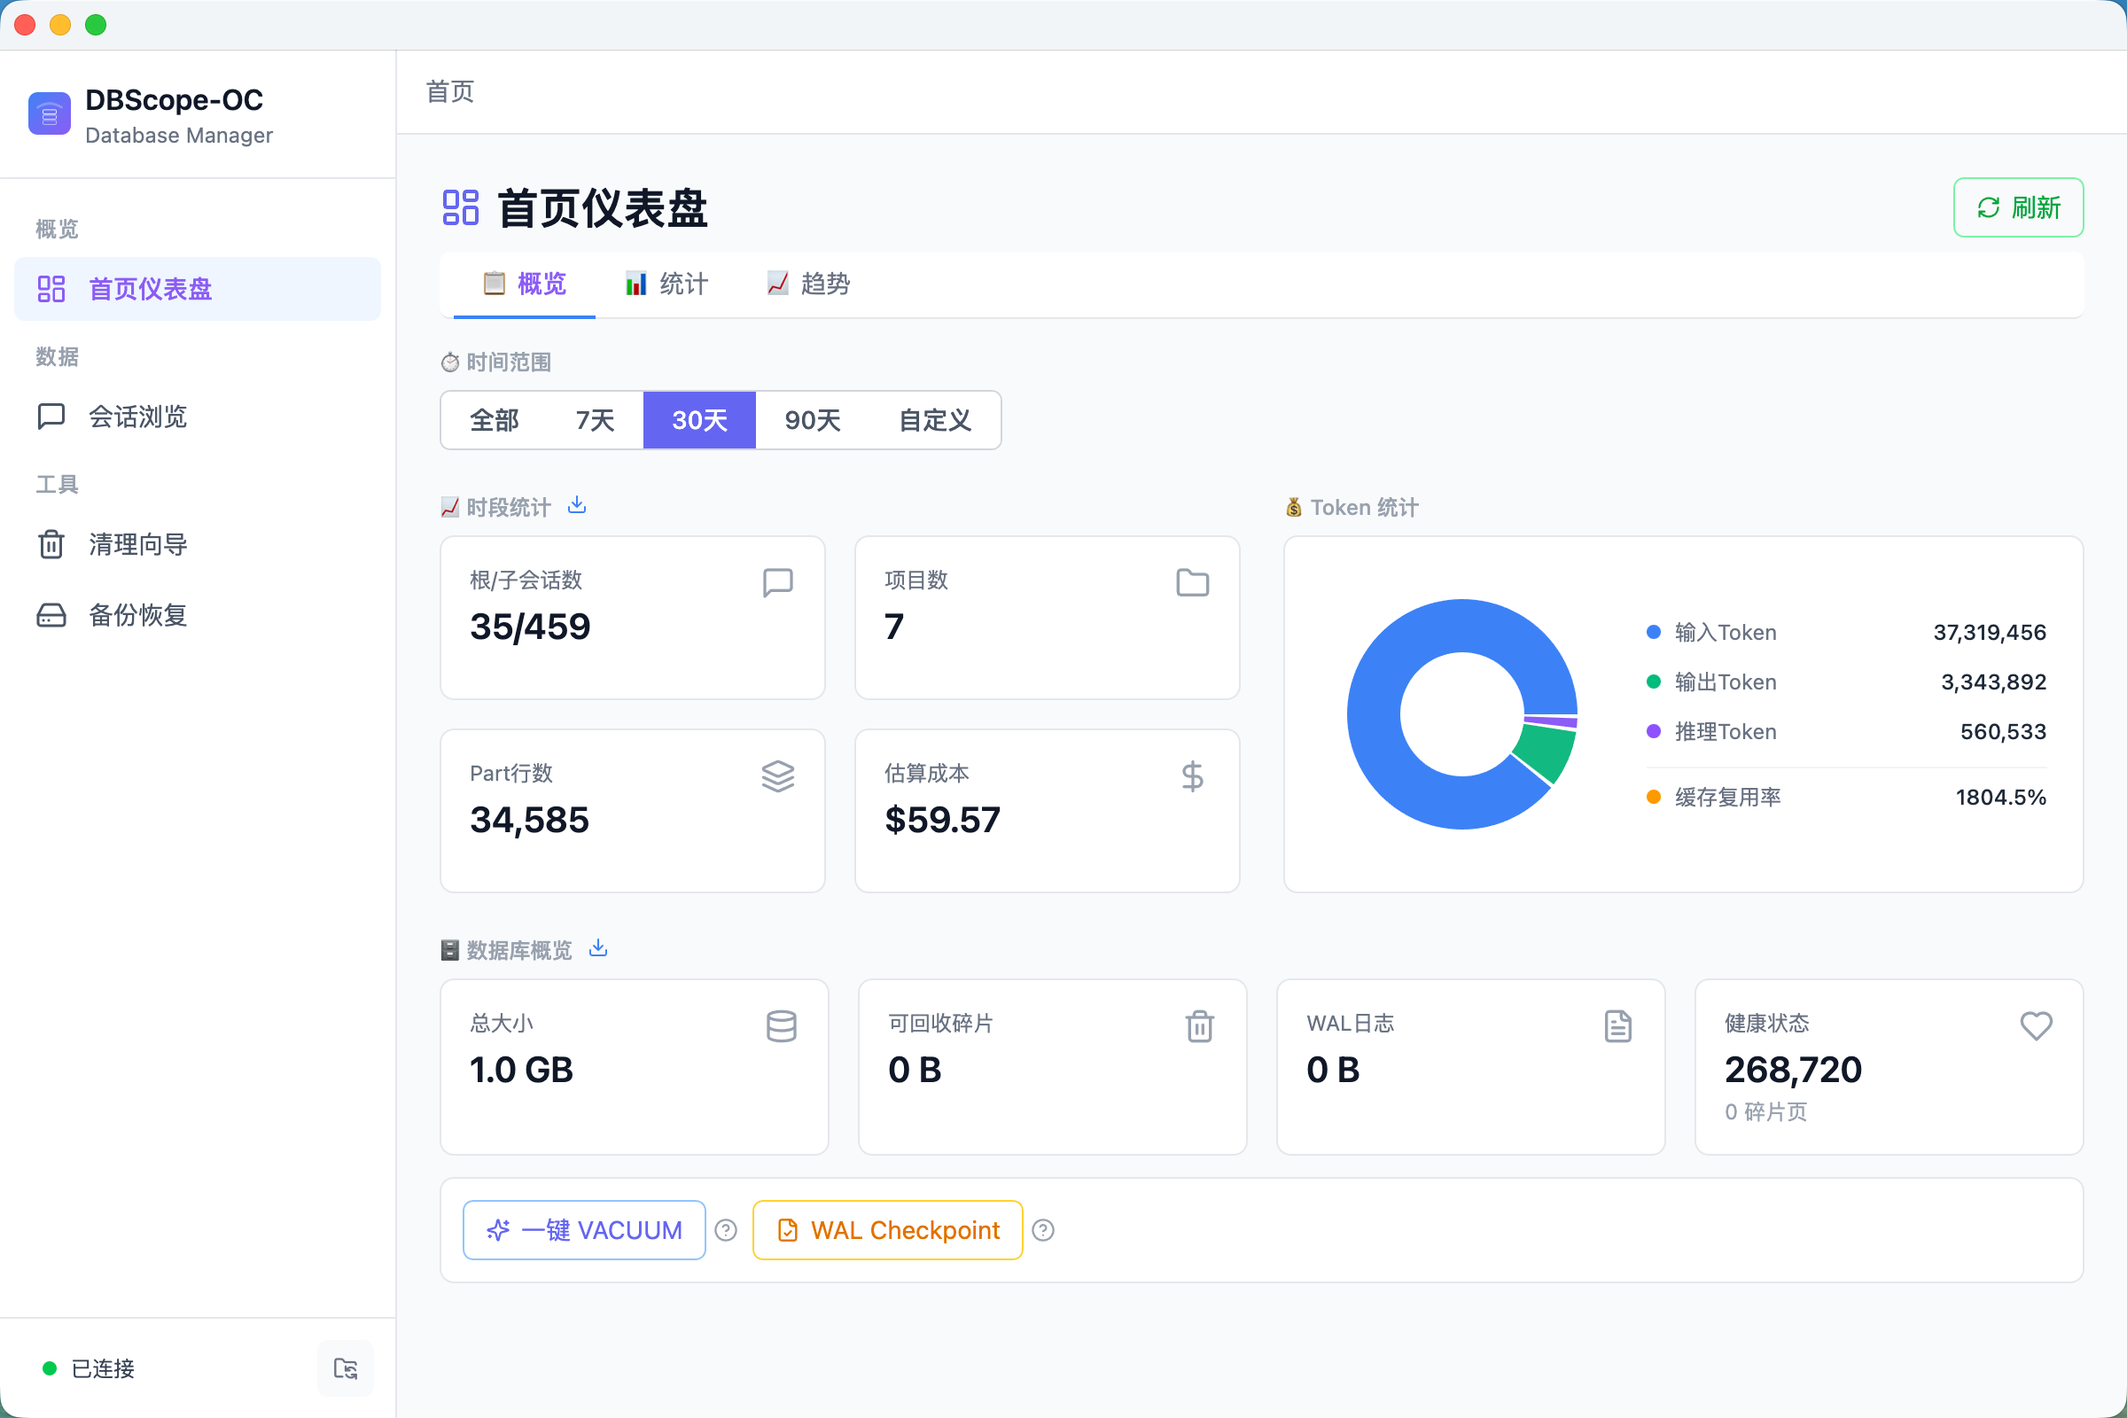
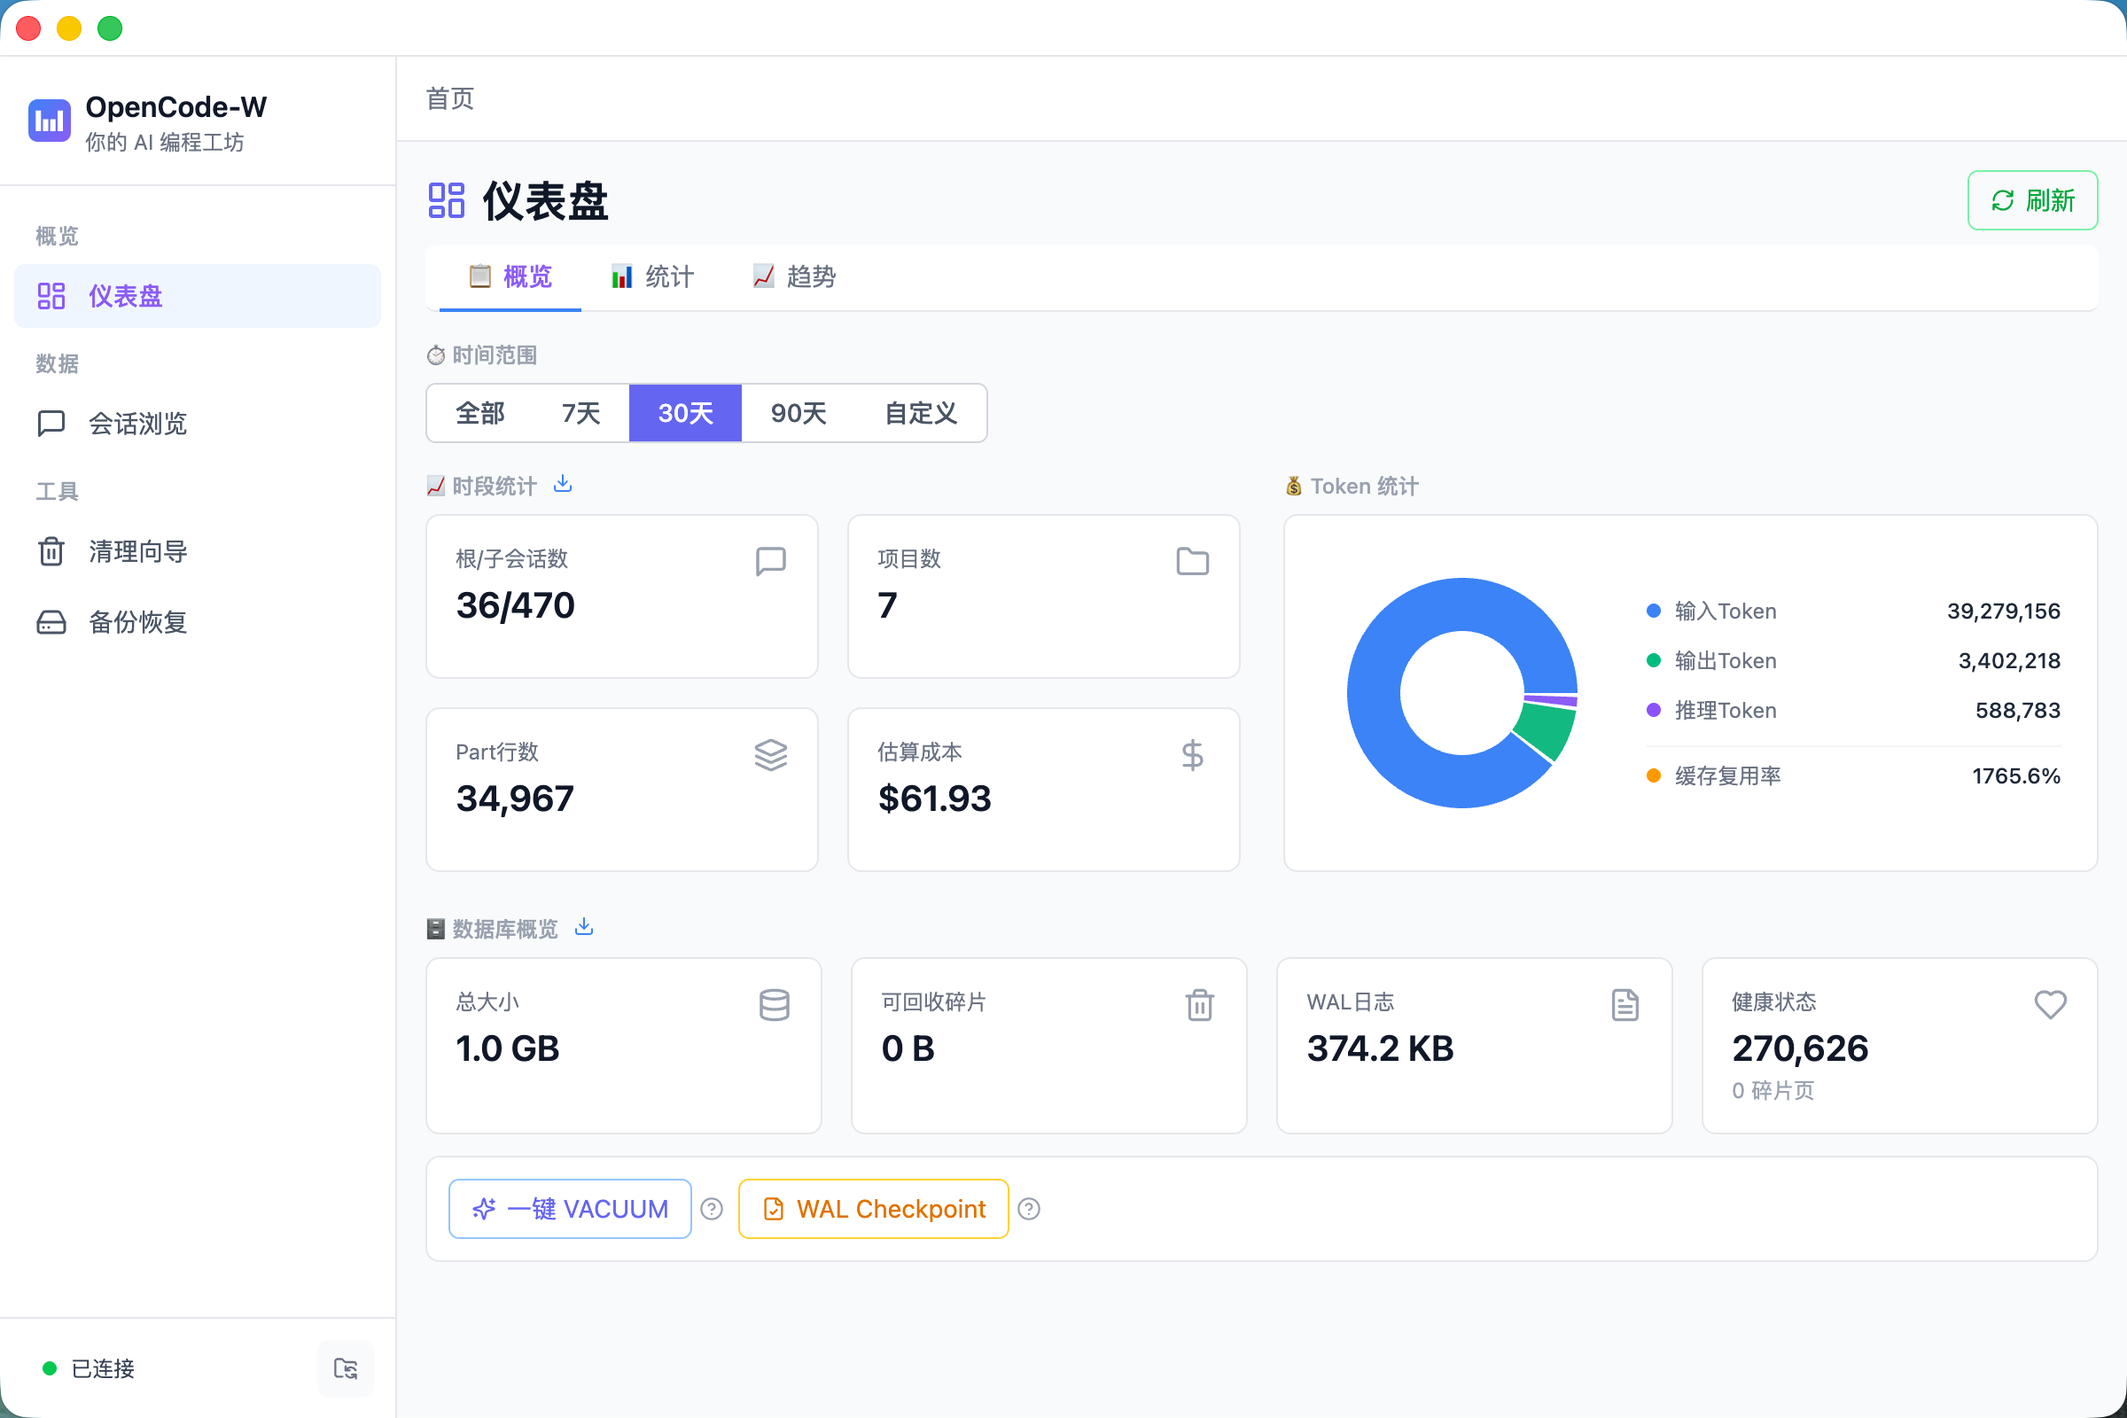
chore: 完成品牌升级重命名为OpenCode-W
同步更新所有文档、配置与资源文件，包括仓库地址、项目路径、页面文案和资产文件，完成从DBScope-OC到OpenCode-W的全量替换

diff --git a/README.md b/README.md
@@ -1,6 +1,8 @@
-# DBScope-OC
+# OpenCode-W
 
-> OpenCode 数据库可视化管理工具 - 轻松管理你的 OpenCode 会话数据
+> **社区工具，与 [OpenCode](https://github.com/anomalyco/opencode) 没有正式关联.**
+
+> 让每一次 AI 对话，都成为你精进编程功力的工程资本
 
 [![License: MIT](https://img.shields.io/badge/License-MIT-yellow.svg)](https://opensource.org/licenses/MIT)
 [![Electron](https://img.shields.io/badge/Electron-42.4.0-blue.svg)](https://www.electronjs.org/)
@@ -10,21 +12,37 @@
 
 ## 📖 简介
 
-DBScope-OC 是一款跨平台桌面应用，用于可视化管理 OpenCode 的 SQLite 数据库。支持数据库概览仪表盘、会话与消息浏览、安全清理、备份恢复，覆盖 OpenCode 全部核心数据表。
+OpenCode-W 是你的 AI 编程工程工坊。它将每次 OpenCode 对话自动沉淀为可分析的数据资产——Token 消耗、工具偏好、模型 ROI、成本趋势——让你看清自己的编程行为模式，用数据而非感觉来做技术决策，系统性提升编程工程化能力。
+
+W = **W**orkshop（工坊），也是作者 **W**ebb 的印记。
 
 > 基于 [OpenCode](https://github.com/anomalyco/opencode) 构建
-> 
+>
 > - ✅ **支持OpenCode v1.x 及以上版本**：`session` 表需包含 `parent_id` 列以支持会话层级（父子会话、根/子统计）。
+
+## 🎯 为什么选择 OpenCode-W？
+
+通用 SQLite 浏览器能打开任何数据库——但不懂 OpenCode 的 Schema。OpenCode-W 专为 OpenCode 打造：
+
+| 你想要 | 通用工具 | OpenCode-W |
+|--------|---------|------------|
+| 知道花了多少钱 | ❌ 没有 AI 成本概念 | ✅ Token → 成本实时换算，趋势图一目了然 |
+| 找到那轮调试对话 | ⚠ 手写 SQL 搜 | ✅ 全文搜索 + 父子会话层级展开 |
+| 看懂 AI 的内部运作 | ❌ 12 种 Part 类型看不懂 | ✅ 原生解析，按类型分 Tab 展示 |
+| 安全清理旧数据 | ❌ DELETE 即执行，无后悔药 | ✅ 预览 → 确认 → 3 秒倒计时 |
+| 开箱即用 | ⚠ 需要选文件、懂 Schema | ✅ 自动检测 opencode.db，打开就用 |
+
+👤 **谁适合用？** 每周用 OpenCode 产生数十上百次 AI 对话、想看清花费和效率、希望从「凭感觉写」进阶到「凭数据工程」的开发者。
 
 ## ✨ 功能特性
 
 ![Dashboard](docs/images/dashboard.png)
 
-- 📊 **首页仪表盘** - 时间范围选择 (7/30/90/全部)、6 行分区布局、时段对比、Token/工具/技能分析、增长趋势、并行加载
-- 💬 **会话浏览** - 搜索、日期筛选、项目筛选、排序、分页、详情面板 (Token/Tool/Skill/Todos/Share)
-- 📝 **消息查看器** - Markdown 渲染、代码语法高亮、全文搜索、跨 Session 搜索、Part 明细、Tool 展开
-- 🧹 **清理向导** - 4 种策略、预览确认、3 秒倒计时安全机制
-- 💾 **备份恢复** - 一键备份、版本管理、灾难恢复
+- 📊 **仪表盘** — 会话资产、Token 消耗、成本水位、工具排行，Dashboard 一眼看清 AI 编程全貌
+- 💬 **会话浏览** — 父子会话完整工艺链，从需求到交付每一步都在这里，支持键盘导航
+- 📝 **消息查看** — 原生对话流渲染，像复盘棋局一样回溯编程过程；全文搜索一秒定位关键方案
+- 🧹 **清理向导** — 4 种清理策略，先预览再确认，3 秒倒计时安全回收，VACUUM 释放磁盘空间
+- 💾 **备份恢复** — 一键备份、版本管理、灾难恢复，像 Git commit 一样养成定期存档习惯
 
 ## 🚀 快速开始
 
@@ -37,8 +55,8 @@ DBScope-OC 是一款跨平台桌面应用，用于可视化管理 OpenCode 的 S
 
 ```bash
 # 1. 克隆仓库
-git clone https://github.com/WebbLee94/DBScope-OC.git
-cd DBScope-OC
+git clone https://github.com/WebbLee94/OpenCode-W.git
+cd OpenCode-W
 
 # 2. 安装依赖
 npm install
@@ -68,7 +86,7 @@ npm run build
 ## 📁 项目结构
 
 ```
-DBScope-OC/
+OpenCode-W/
 ├── electron/           # 主进程代码
 │   ├── main.ts        # 主进程入口
 │   ├── database.ts    # DatabaseManager 单例
@@ -82,7 +100,7 @@ DBScope-OC/
 │       └── backup.ts      # 备份恢复
 ├── src/               # 渲染进程代码
 │   ├── features/      # 功能模块
-│   │   ├── dashboard/     # 首页仪表盘
+│   │   ├── dashboard/     # 仪表盘
 │   │   ├── sessions/      # 会话浏览
 │   │   ├── messages/      # 消息查看
 │   │   ├── cleanup/       # 清理向导
@@ -116,7 +134,7 @@ A: 运行 VACUUM 或重启应用。
 
 ### Q: 备份文件存储在哪里？
 
-A: 默认存储在 `~/.DBScope-OC/backups/` 目录。
+A: 默认存储在 `~/.opencode-w/backups/` 目录。
 
 ## 🔧 数据库驱动
 

diff --git a/docs/06-OpenCode-Part-数据模型解析方案.md b/docs/06-OpenCode-Part-数据模型解析方案.md
@@ -2,12 +2,12 @@
 
 > 调研对象：OpenCode 消息 part 的所有类型、schema、解析策略、渲染方案
 > 调研时间：2026-06-12
-> 数据来源：OpenCode 开源仓库 canonical schema + 实际测试 DB 数据 + 当前 DBScope-OC 实现
-> 适用范围：DBScope-OC 预览 Tab（ConversationView）和解析 Tab（MessageViewer）
+> 数据来源：OpenCode 开源仓库 canonical schema + 实际测试 DB 数据 + 当前 OpenCode-W 实现
+> 适用范围：OpenCode-W 预览 Tab（ConversationView）和解析 Tab（MessageViewer）
 
 ## 一、调研背景
 
-DBScope-OC 当前对 OpenCode `part` 表的解析存在以下空缺：
+OpenCode-W 当前对 OpenCode `part` 表的解析存在以下空缺：
 
 1. **assistant 内容空缺** — `MessageDTO.content` 仅从 `message.data.content/text` 取值，而 assistant 消息的真实文本存储在 `part.data.text`（`type="text"`）中，导致 assistant 预览区几乎全部为空。
 2. **user 内容缺失** — `parsePartData` 对 `text` part 仅取 `text` 字段，未兼容旧 flat 格式（`content` 字段），且未处理 `synthetic/ignored` 标记。
@@ -67,7 +67,7 @@ export type TextPart = z.infer<typeof TextPart>
 }
 ```
 
-**当前 DBScope-OC 覆盖度**：部分（`electron/ipc/messages.ts:33-37` 仅读 `text/content`，未读 `synthetic/ignored/time/metadata`）。
+**当前 OpenCode-W 覆盖度**：部分（`electron/ipc/messages.ts:33-37` 仅读 `text/content`，未读 `synthetic/ignored/time/metadata`）。
 
 **解析策略**：
 
@@ -920,7 +920,7 @@ import { PartBubble } from '../../components/part-bubbles'
 
 - OpenCode 源码：`packages/opencode/src/session/message-v2.ts`（commit `5d2dc888` / `5c5069b6` / `dev`）
 - TypeScript Types 文档：<https://www.mintlify.com/anomalyco/opencode/sdk/types>
-- DBScope-OC 现有实现：
+- OpenCode-W 现有实现：
   - `electron/ipc/messages.ts:6-86`（parsePartData）
   - `shared/types.ts:154-173`（PartDTO）
   - `src/features/sessions/ConversationView.tsx:94-173`（内联渲染）

diff --git a/docs/01-架构设计.md b/docs/01-架构设计.md
@@ -10,7 +10,7 @@
 │  │  Main Process    │     │  Renderer Process    │  │
 │  │  (Node.js)       │ IPC │  (Chromium + React)  │  │
 │  │                  │◄───►│                      │  │
-│  │  DatabaseManager │     │  首页仪表盘  会话浏览   │  │
+│  │  DatabaseManager │     │  仪表盘     会话浏览   │  │
 │  │  IPC 处理层       │     │  消息查看器  清理向导   │  │
 │  │  node:sqlite     │     │  备份恢复             │  │
 │  └──────────────────┘     └──────────────────────┘  │
@@ -32,7 +32,7 @@
 ## 目录结构（实际实现）
 
 ```
-DBScope-OC/
+OpenCode-W/
 ├── electron/                    # 主进程
 │   ├── main.ts                  # 入口：创建窗口、注册 IPC、自动检测数据库
 │   ├── database.ts              # DatabaseManager 单例类
@@ -50,7 +50,7 @@ DBScope-OC/
 │   ├── App.tsx                  # 路由 + 布局壳（侧边栏 3 分组 + 面包屑 + 连接状态）
 │   ├── index.css                # Tailwind CSS 入口
 │   ├── features/
-│   │   ├── dashboard/           # 首页仪表盘
+│   │   ├── dashboard/           # 仪表盘
 │   │   ├── sessions/            # 会话浏览（含详情侧面板 + 内嵌 Todos Tab）
 │   │   ├── messages/            # 消息查看器（左右分栏布局）
 │   │   ├── cleanup/             # 清理向导（3步向导流程）
@@ -129,7 +129,7 @@ DBScope-OC/
 
 | 路径 | 组件 | 说明 |
 |------|------|------|
-| `/` | Dashboard | 首页仪表盘 |
+| `/` | Dashboard | 仪表盘 |
 | `/sessions` | Sessions | 会话浏览列表 |
 | `/sessions/:sessionId/messages` | Messages | 消息查看器 |
 | `/cleanup` | Cleanup | 清理向导 |

diff --git a/docs/05-使用手册.md b/docs/05-使用手册.md
@@ -1,4 +1,4 @@
-# DBScope-OC 用户手册
+# OpenCode-W 用户手册
 
 ## 1. 安装与启动
 
@@ -14,7 +14,7 @@
 
 ```bash
 # 1. 进入项目目录
-cd DBScope-OC
+cd OpenCode-W
 
 # 2. 安装依赖
 npm install
@@ -58,7 +58,7 @@ npm run build
 如果找到数据库，左侧边栏底部会显示绿色圆点 + "已连接"。
 
 > **侧边栏分组（v1.1.0）**：左侧菜单按功能分类为 3 个一级分组：
-> - **概览**：首页仪表盘
+> - **概览**：仪表盘
 > - **数据**：会话浏览
 > - **工具**：清理向导、备份恢复
 
@@ -72,9 +72,9 @@ npm run build
 
 ## 3. 功能使用
 
-### 3.1 首页仪表盘
+### 3.1 仪表盘
 
-首页仪表盘提供数据库全貌概览。
+仪表盘提供数据库全貌概览。
 
 **统计卡片**（两行，每行 4 个）：
 
@@ -188,7 +188,7 @@ npm run build
 
 **创建备份**：
 - 点击"立即备份"按钮
-- 备份文件自动保存到 `~/.DBScope-OC/backups/`
+- 备份文件自动保存到 `~/.opencode-w/backups/`
 - 文件命名格式：`opencode-backup-YYYY-MM-DDTHH-MM-SS-mmmZ.db`
 - 同时复制 WAL 和 SHM 文件
 
@@ -234,9 +234,9 @@ npm run build
 
 | 操作系统 | 路径 |
 |---------|------|
-| macOS | `~/.DBScope-OC/backups/` |
-| Linux | `~/.DBScope-OC/backups/` |
-| Windows | `~/.DBScope-OC/backups/` |
+| macOS | `~/.opencode-w/backups/` |
+| Linux | `~/.opencode-w/backups/` |
+| Windows | `~/.opencode-w/backups/` |
 
 ### 4.4 默认数据库路径
 

diff --git a/CHANGELOG.md b/CHANGELOG.md
@@ -5,6 +5,17 @@ All notable changes to this project will be documented in this file.
 The format is based on [Keep a Changelog](https://keepachangelog.com/en/1.1.0/),
 and this project adheres to [Semantic Versioning](https://semver.org/spec/v2.0.0.html).
 
+## [1.2.0] - 2026-06-15
+
+> 品牌升级：DBScope-OC → **OpenCode-W**，全新「AI 编程工程工坊」定位与条柱 W Logo。
+
+### 🔄 Changed｜品牌升级
+
+- **品牌重命名**：项目名从 `DBScope-OC` 更名为 `OpenCode-W`，仓库同步迁移至 `OpenCode-W`
+- **新 Logo**：设计条柱 W Logo（蓝紫渐变 #3B82F6 → #8B5CF6），全套 SVG + PNG 12 尺寸 + icns + ico 资产
+- **工坊隐喻**：功能页面标题对齐工坊定位——工坊总览、素材库、工艺记录、整理车间、归档室
+- **文档同步**：README、AGENTS.md、CONTRIBUTING.md、SECURITY.md、CODE_OF_CONDUCT.md、docs/ 全量更新
+
 ## [1.1.0] - 2026-06-13
 
 > 一次聚焦「**会话浏览更直观、消息查看更顺滑、整体交互更一致**」的大版本。1.0.1 → 1.1.0 共 106 个 commit，**强烈建议升级**：本版修复了若干会导致页面空白/统计错位的问题，并把会话层级、消息查看、交互效率整体提了一档。

diff --git a/docs/04-功能模块/05-备份恢复.md b/docs/04-功能模块/05-备份恢复.md
@@ -13,7 +13,7 @@
 │  ┌─ 创建备份 ─────────────────────────────────────┐  │
 │  │  📥 创建备份                                    │  │
 │  │     将当前数据库导出为备份文件                    │  │
-│  │     备份目录: ~/.DBScope-OC/backups/             │  │
+│  │     备份目录: ~/.opencode-w/backups/             │  │
 │  │                                    [立即备份]    │  │
 │  │  ✓ 备份成功: opencode-backup-2026-05-21T...db   │  │
 │  └─────────────────────────────────────────────────┘  │
@@ -56,7 +56,7 @@ opencode-backup-2026-05-21T14-30-22-123Z.db
 
 ### 备份目录
 
-- 路径：`~/.DBScope-OC/backups/`
+- 路径：`~/.opencode-w/backups/`
 - 首次备份时自动创建目录
 
 ### 结果反馈

diff --git a/CONTRIBUTING.md b/CONTRIBUTING.md
@@ -1,6 +1,6 @@
 # 贡献指南
 
-感谢你对 DBScope-OC 项目的关注！本文档将帮助你了解如何参与项目贡献。
+感谢你对 OpenCode-W 项目的关注！本文档将帮助你了解如何参与项目贡献。
 
 ## 提交流程
 
@@ -98,7 +98,7 @@ npm test
 
 - 它是 `@electron/rebuild`（electron-builder 子依赖）的传递依赖
 - 仅当存在 C++ 原生模块需要重编译时才会被调用
-- 自 v1.1.0 起 DBScope-OC 已切换到 Node 内置 `node:sqlite`，**项目无任何 C++ 原生模块**
+- 自 v1.1.0 起 OpenCode-W 已切换到 Node 内置 `node:sqlite`，**项目无任何 C++ 原生模块**
 - CI 流水线不再调用 `npm run rebuild-native`（参见 `.github/workflows/ci.yml`）
 
 因此 `node-gyp` 在 lock 中残留不影响构建产物大小或安装时间，无需手动清理。

diff --git a/SECURITY.md b/SECURITY.md
@@ -2,11 +2,11 @@
 
 ## 漏洞报告
 
-如果你发现 DBScope-OC 存在安全漏洞，请**不要**通过公开的 GitHub Issue 报告。
+如果你发现 OpenCode-W 存在安全漏洞，请**不要**通过公开的 GitHub Issue 报告。
 
 ### 报告方式
 
-请通过 [GitHub Security Advisory](https://github.com/WebbLee94/DBScope-OC/security/advisories/new) 私下报告安全漏洞。
+请通过 [GitHub Security Advisory](https://github.com/WebbLee94/OpenCode-W/security/advisories/new) 私下报告安全漏洞。
 
 ### 报告内容
 
@@ -32,7 +32,7 @@
 
 ## 安全最佳实践
 
-DBScope-OC 遵循以下安全原则：
+OpenCode-W 遵循以下安全原则：
 
 - `contextIsolation: true` + `nodeIntegration: false` 隔离渲染进程
 - 所有 SQL 查询使用参数化查询，防止 SQL 注入

diff --git a/CODE_OF_CONDUCT.md b/CODE_OF_CONDUCT.md
@@ -60,7 +60,7 @@ representative at an online or offline event.
 
 Instances of abusive, harassing, or otherwise unacceptable behavior may be
 reported to the community leaders responsible for enforcement at
-[GitHub Issues](https://github.com/WebbLee94/DBScope-OC/issues).
+[GitHub Issues](https://github.com/WebbLee94/OpenCode-W/issues).
 All complaints will be reviewed and investigated promptly and fairly.
 
 All community leaders are obligated to respect the privacy and security of the
